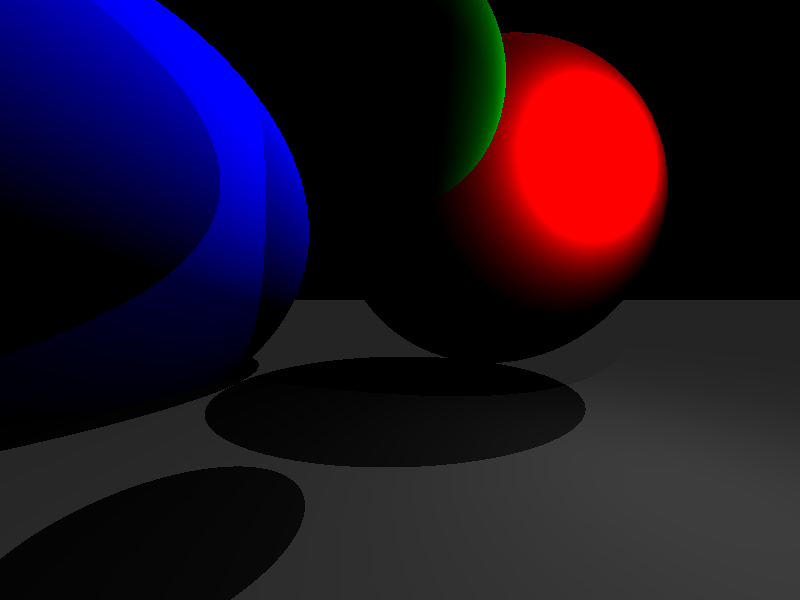
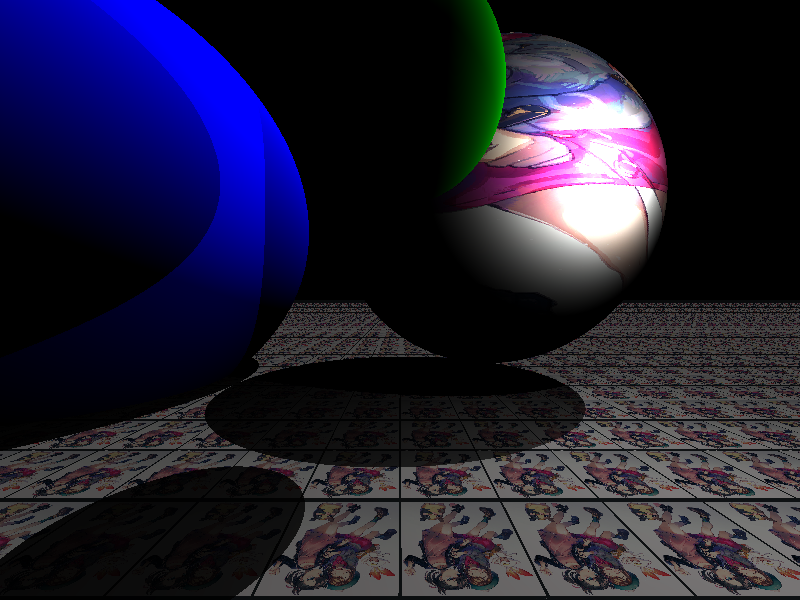
add texture

diff --git a/src/scene.rs b/src/scene.rs
@@ -1,10 +1,12 @@
-use std::ops::{Add, AddAssign, Mul, Div};
 use crate::math::{Point, Vector3};
-use crate::rendering::{Ray, Intersectable};
+use crate::rendering::{Intersectable, Ray};
+use std::ops::{Add, AddAssign, Div, Mul};
 
 pub type Distance = f64;
 
 pub const SHADOW_BIAS: f64 = 1e-13;
+
+use image::ImageBuffer;
 
 #[derive(Debug, PartialEq, Default, Clone, Copy)]
 pub struct Color {
@@ -19,8 +21,16 @@ impl Color {
             (self.r * 255f32) as u8,
             (self.g * 255f32) as u8,
             (self.b * 255f32) as u8,
-            255u8
+            255u8,
         ]
+    }
+
+    pub fn from_rgba8(rgba8: &[u8; 4]) -> Self {
+        Color {
+            r: rgba8[0] as f32 / 255f32,
+            g: rgba8[1] as f32 / 255f32,
+            b: rgba8[2] as f32 / 255f32,
+        }
     }
 
     pub fn clamp(&self) -> Color {
@@ -30,16 +40,15 @@ impl Color {
             g: self.g.min(1.0).max(0.0),
         }
     }
-
 }
 
 impl Add for Color {
-    type Output = Self ;
+    type Output = Self;
     fn add(self, other: Self) -> Self {
         Self {
-            r: self.r+ other.r,
-            g: self.g+ other.g,
-            b: self.b+ other.b,
+            r: self.r + other.r,
+            g: self.g + other.g,
+            b: self.b + other.b,
         }
     }
 }
@@ -93,20 +102,18 @@ impl Mul<Color> for Color {
     }
 }
 
-#[derive(Debug, Clone)]
+#[derive(Clone)]
 pub struct Sphere {
     pub center: Point,
     pub radius: Distance,
-    pub color: Color,
-    pub albedo: f32,
+    pub material: Material,
 }
 
-#[derive(Debug, Clone)]
+#[derive(Clone)]
 pub struct Plane {
     pub pos: Point,
     pub normal: Vector3,
-    pub color: Color,
-    pub albedo: f32,
+    pub material: Material,
 }
 
 pub struct Scene {
@@ -140,16 +147,22 @@ impl Intersectable for Sphere {
         }
     }
 
-    fn get_color(&self) -> Color {
-        self.color
-    }
-
     fn surface_normal(&self, hit_point: &Point) -> Vector3 {
         (*hit_point - self.center).normalize()
     }
 
-    fn albedo(&self) -> f32 {
-        self.albedo
+    fn texture_coords(&self, hit_point: &Point) -> TextureCoords {
+        let p = *hit_point - self.center;
+        let phi = (p.z).atan2(p.x);
+        let theta = (p.y / self.radius).acos();
+        TextureCoords {
+            u: (1.0 + phi) as f32 / std::f32::consts::PI * 0.5,
+            v: theta as f32 / std::f32::consts::PI,
+        }
+    }
+
+    fn get_material(&self) -> &Material {
+        &self.material
     }
 }
 
@@ -167,16 +180,35 @@ impl Intersectable for Plane {
         None
     }
 
-    fn get_color(&self) -> Color {
-        self.color
-    }
-
     fn surface_normal(&self, _hit_point: &Point) -> Vector3 {
         -self.normal
     }
 
-    fn albedo(&self) -> f32 {
-        self.albedo
+    fn texture_coords(&self, hit_point: &Point) -> TextureCoords {
+        let mut x_axis = self.normal.cross(&Vector3 {
+            x: 0.0,
+            y: 0.0,
+            z: 1.0,
+        });
+        if x_axis.length() == 0.0 {
+            x_axis = self.normal.cross(&Vector3 {
+                x: 0.0,
+                y: 1.0,
+                z: 0.0,
+            });
+        }
+        let y_axis = self.normal.cross(&x_axis);
+
+        let p: Vector3 = *hit_point - self.pos;
+
+        TextureCoords {
+            u: p.dot(&x_axis) as f32,
+            v: p.dot(&y_axis) as f32,
+        }
+    }
+
+    fn get_material(&self) -> &Material {
+        &self.material
     }
 }
 
@@ -236,4 +268,45 @@ impl Light for SphericalLight {
     fn distance(&self, hit_point: &Point) -> Distance {
         (self.position - *hit_point).length()
     }
+}
+
+#[derive(Clone)]
+pub enum Coloration {
+    Color(Color),
+    Texture(ImageBuffer<image::Rgba<u8>, std::vec::Vec<u8>>),
+}
+
+fn wrap(val: f32, bound: u32) -> u32 {
+    let signed_bound = bound as i32;
+    let float_coord = val * bound as f32;
+    let wrapped_coord = (float_coord as i32) % signed_bound;
+    if wrapped_coord < 0 {
+        (wrapped_coord + signed_bound) as u32
+    } else {
+        wrapped_coord as u32
+    }
+}
+
+impl Coloration {
+    pub fn color(&self, texture_coords: &TextureCoords) -> Color {
+        match self {
+            Self::Color(c) => *c,
+            Self::Texture(tex) => {
+                let u = wrap(texture_coords.u, tex.width());
+                let v = wrap(texture_coords.v, tex.height());
+                Color::from_rgba8(&tex.get_pixel(u, v).0)
+            }
+        }
+    }
+}
+
+#[derive(Clone)]
+pub struct Material {
+    pub color: Coloration,
+    pub albedo: f32,
+}
+
+pub struct TextureCoords {
+    pub u: f32,
+    pub v: f32,
 }

diff --git a/src/main.rs b/src/main.rs
@@ -5,14 +5,15 @@ mod rendering;
 mod scene;
 
 use math::{Point, Vector3};
-use rendering::{render};
-use scene::{Color, Plane, Scene, Sphere, DirectionalLight, SphericalLight};
+use rendering::render;
+use scene::{Coloration, Color, DirectionalLight, Material, Plane, Scene, Sphere, SphericalLight};
 
 fn main() {
     test_can_render_scene();
 }
 
 fn test_can_render_scene() {
+    let tex = image::open("tex.png").unwrap();
     let scene = Scene {
         width: 800,
         height: 600,
@@ -25,12 +26,14 @@ fn test_can_render_scene() {
                     z: -3.0,
                 },
                 radius: 1.0,
-                color: Color {
-                    r: 0.0,
-                    g: 1.0,
-                    b: 0.0,
+                material: Material {
+                    color: Coloration::Color(Color{
+                        r: 0.0,
+                        g: 1.0,
+                        b: 0.0,
+                    }),
+                    albedo: 0.5,
                 },
-                albedo: 0.5,
             }),
             Box::new(Sphere {
                 center: Point {
@@ -39,12 +42,17 @@ fn test_can_render_scene() {
                     z: -7.5,
                 },
                 radius: 3.5,
-                color: Color {
-                    r: 1.0,
-                    g: 0.0,
-                    b: 0.0,
+                material: Material {
+                    color: Coloration::Texture(tex.to_rgba()),
+                    /*
+                    color: Coloration::Color(Color{
+                        r: 1.0,
+                        g: 0.0,
+                        b: 0.0,
+                    }),
+                    */
+                    albedo: 0.99,
                 },
-                albedo: 0.99,
             }),
             Box::new(Sphere {
                 center: Point {
@@ -53,12 +61,14 @@ fn test_can_render_scene() {
                     z: -7.5,
                 },
                 radius: 5.0,
-                color: Color {
-                    r: 0.0,
-                    g: 0.0,
-                    b: 1.0,
+                material: Material {
+                    color: Coloration::Color(Color{
+                        r: 0.0,
+                        g: 0.0,
+                        b: 1.0,
+                    }),
+                    albedo: 2.0,
                 },
-                albedo: 2.0,
             }),
             Box::new(Plane {
                 pos: Point {
@@ -67,26 +77,32 @@ fn test_can_render_scene() {
                     z: -5.0,
                 },
                 normal: Vector3::new(0.0, -1.0, 0.0).normalize(),
-                color: Color {
-                    r: 0.5,
-                    g: 0.5,
-                    b: 0.5,
+                material: Material {
+                    color: Coloration::Texture(tex.to_rgba()),
+                    albedo: 0.5,
                 },
-                albedo: 0.5,
             }),
         ],
         lights: vec![
             Box::new(DirectionalLight {
                 direction: Vector3::new(-0.5, -1.0, 0.1).normalize(),
-                color: Color {r: 1.0, g: 1.0, b: 1.0},
+                color: Color {
+                    r: 1.0,
+                    g: 1.0,
+                    b: 1.0,
+                },
                 intensity: 2.0,
             }),
             Box::new(SphericalLight {
                 position: Point::new(3.0, 2.0, -3.0),
-                color: Color {r: 1.0, g: 1.0, b: 1.0},
+                color: Color {
+                    r: 1.0,
+                    g: 1.0,
+                    b: 1.0,
+                },
                 intensity: 255.0,
-            })
-        ]
+            }),
+        ],
     };
 
     let img = render(&scene).to_rgb();

diff --git a/src/rendering.rs b/src/rendering.rs
@@ -1,5 +1,5 @@
 use crate::math::{Point, Vector3};
-use crate::scene::{Color, Scene, SHADOW_BIAS};
+use crate::scene::{Color, Scene, SHADOW_BIAS, TextureCoords, Distance, Material};
 
 use std::f64;
 
@@ -36,10 +36,10 @@ impl Ray {
 }
 
 pub trait Intersectable {
-    fn intersect(&self, ray: &Ray) -> Option<f64>;
-    fn get_color(&self) -> Color;
+    fn intersect(&self, ray: &Ray) -> Option<Distance>;
     fn surface_normal(&self, hit_point: &Point) -> Vector3;
-    fn albedo(&self) -> f32;
+    fn texture_coords(&self, hit_point: &Point) -> TextureCoords;
+    fn get_material(&self) -> &Material;
 }
 
 pub struct Intersection<'a> {
@@ -67,6 +67,7 @@ pub fn render(scene: &Scene) -> DynamicImage {
         if let Some(intersection) = cast_ray(scene, &ray) {
             let hit_point = ray.origin + (ray.direction * intersection.distance);
             let surface_normal = intersection.item.surface_normal(&hit_point);
+            let uv = intersection.item.texture_coords(&hit_point);
             let color: Color = scene
                 .lights
                 .iter()
@@ -87,10 +88,10 @@ pub fn render(scene: &Scene) -> DynamicImage {
                         }
                 })
                 .sum::<Color>()
-                * intersection.item.albedo()
+                * intersection.item.get_material().albedo
                 / std::f32::consts::PI;
 
-            Rgba::from((intersection.item.get_color() * color).clamp().to_rgba8())
+            Rgba::from((intersection.item.get_material().color.color(&uv) * color).clamp().to_rgba8())
         } else {
             Rgba::from([0, 0, 0, 0])
         }

diff --git a/src/math.rs b/src/math.rs
@@ -145,4 +145,12 @@ impl Vector3 {
     pub fn dot(&self, other: &Vector3) -> f64 {
         self.x * other.x + self.y * other.y + self.z * other.z
     }
+
+    pub fn cross(&self, other: &Vector3) -> Vector3 {
+        Vector3 {
+            x: self.y * other.z - self.z * other.y,
+            y: self.z * other.x - self.x * other.z,
+            z: self.x * other.y - self.y * other.x,
+        }
+    }
 }
